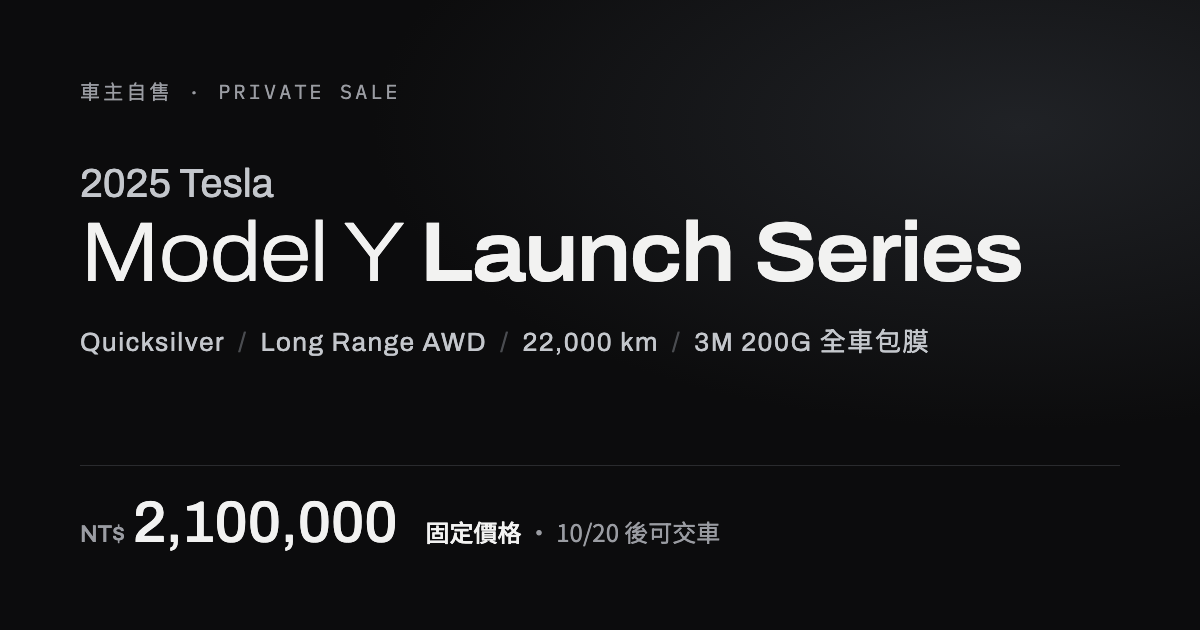
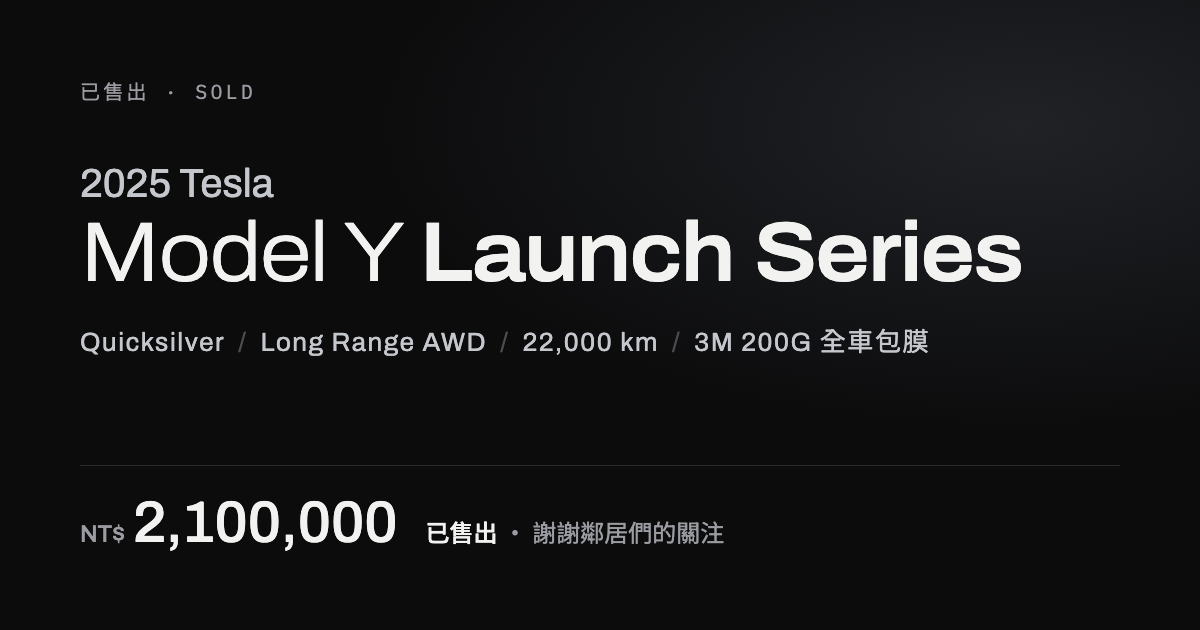
feat(sale): mark the car as sold
Sticky sold banner above the top bar, sold labels on the hero price,
price section and mobile dock, sold title/OG card, and SoldOut in the
Car JSON-LD.

Changed region(s): [[0.3392, 0.8143, 0.6167, 0.8746], [0.0617, 0.1206, 0.3392, 0.181]]

diff --git a/public/sale/index.html b/public/sale/index.html
@@ -3,8 +3,8 @@
 <head>
 <meta charset="utf-8">
 <meta name="viewport" content="width=device-width, initial-scale=1, viewport-fit=cover">
-<title>2025 Tesla Model Y Launch Series｜車主自售 NT$2,100,000</title>
-<meta name="description" content="車主自售 2025 Tesla Model Y Long Range AWD Launch Series（台灣首發限量版）。Quicksilver、黑內裝、20 吋 Helix 2.0，約 22,000 km，全車 3M 200G 保護膜，Tesla 原廠配件齊全。固定價格 NT$2,100,000。">
+<title>【已售出】2025 Tesla Model Y Launch Series｜車主自售</title>
+<meta name="description" content="已售出。車主自售 2025 Tesla Model Y Long Range AWD Launch Series（台灣首發限量版）。Quicksilver、黑內裝、20 吋 Helix 2.0，約 22,000 km，全車 3M 200G 保護膜，Tesla 原廠配件齊全。固定價格 NT$2,100,000。">
 <link rel="canonical" href="https://tesla.orz.tw/sale/">
 <meta name="theme-color" content="#0c0c0d">
 <script>try{var f=localStorage.getItem('sale-fs');if(f==='l'||f==='xl')document.documentElement.setAttribute('data-fs',f)}catch(e){}</script>
@@ -12,8 +12,8 @@
 <meta property="og:type" content="website">
 <meta property="og:locale" content="zh_TW">
 <meta property="og:url" content="https://tesla.orz.tw/sale/">
-<meta property="og:title" content="2025 Tesla Model Y Launch Series｜車主自售">
-<meta property="og:description" content="Quicksilver・黑內裝・20 吋 Helix 2.0・約 22,000 km・全車 3M 200G 保護膜。固定價格 NT$2,100,000。">
+<meta property="og:title" content="【已售出】2025 Tesla Model Y Launch Series｜車主自售">
+<meta property="og:description" content="Quicksilver・黑內裝・20 吋 Helix 2.0・約 22,000 km・全車 3M 200G 保護膜。已售出，謝謝鄰居們的關注。">
 <meta property="og:image" content="https://tesla.orz.tw/sale/images/og.png">
 <meta property="og:image:width" content="1200">
 <meta property="og:image:height" content="630">
@@ -41,7 +41,7 @@
     "@type": "Offer",
     "price": 2100000,
     "priceCurrency": "TWD",
-    "availability": "https://schema.org/InStock",
+    "availability": "https://schema.org/SoldOut",
     "seller": { "@type": "Person", "name": "車主自售" }
   }
 }
@@ -54,7 +54,7 @@
 <style>
   :root {
     --fs: 1;
-    --bar-h: 101px; /* top row 56 + border 1 + section index 44 */
+    --bar-h: 137px; /* sold banner 36 + top row 56 + border 1 + section index 44 */
     --ink: #0c0c0d;
     --graphite: #161719;
     --graphite-2: #1f2023;
@@ -113,6 +113,13 @@
   :focus-visible { outline: 2px solid currentColor; outline-offset: 3px; }
 
   /* ---------- Top bar ---------- */
+  .soldbar {
+    height: 36px; display: flex; align-items: center; justify-content: center; gap: 10px;
+    background: var(--text-light); color: var(--ink);
+    font-size: 14px; letter-spacing: .08em; white-space: nowrap; overflow: hidden;
+  }
+  .soldbar b { font-weight: 700; letter-spacing: .14em; }
+  .soldbar span { color: var(--muted-dark); }
   .topbar {
     position: fixed; inset: 0 0 auto 0; z-index: 50;
     color: var(--text-light);
@@ -219,7 +226,7 @@
     .hero .hero__foot { margin-top: 28px; padding-top: 20px; }
     .hero__actions .btn { flex: 1 1 0; }
   }
-  .hero__body { position: relative; z-index: 2; width: 100%; padding-top: 160px; padding-bottom: 48px; }
+  .hero__body { position: relative; z-index: 2; width: 100%; padding-top: 196px; padding-bottom: 48px; }
   .hero .eyebrow { color: var(--muted-light); }
   .hero h1 {
     margin-top: 18px;
@@ -252,6 +259,7 @@
   .price-tag__num small { font-size: calc(0.42em * var(--fs)); font-weight: 400; color: var(--muted-light); margin-right: 6px; letter-spacing: 0.04em; }
   .price-tag__note { font-size: calc(14px * var(--fs)); color: var(--muted-light); }
   .price-tag__note b { color: var(--text-light); font-weight: 500; }
+  .price-tag__note b.is-sold { display: inline-block; padding: 4px 12px; border-radius: 999px; background: var(--text-light); color: var(--ink); letter-spacing: .08em; }
   .hero__actions { display: flex; gap: 10px; flex-wrap: wrap; }
 
   /* ---------- Sections ---------- */
@@ -562,6 +570,7 @@
 </svg>
 
 <header class="topbar" id="topbar">
+  <p class="soldbar" role="status"><b>已售出 · SOLD</b><span>謝謝鄰居們的關注</span></p>
   <div class="wrap">
     <a class="topbar__name" href="#top">Model Y <span>Launch Series</span></a>
     <div class="topbar__actions">
@@ -602,7 +611,7 @@
       <div class="hero__foot">
         <div class="price-tag">
           <span class="price-tag__num"><small>NT$</small>2,100,000</span>
-          <span class="price-tag__note"><b>固定價格 Fixed Price</b>・10/20 後可交車</span>
+          <span class="price-tag__note"><b class="is-sold">已售出 Sold</b></span>
         </div>
         <div class="hero__actions">
           <a class="btn btn--light" href="#visit">怎麼看車</a>
@@ -861,7 +870,7 @@
         <div class="reveal">
           <p class="eyebrow">Price</p>
           <h2 id="price-title" class="price-big"><small>售價</small>NT$2,100,000</h2>
-          <span class="price-badge">Fixed Price・固定價格，不議價</span>
+          <span class="price-badge">已售出 · Sold</span>
         </div>
         <div class="reveal">
           <p class="muted">售價已依車況與市場行情直接設定為實售價格，採固定價格方式出售。</p>
@@ -955,7 +964,7 @@
 </footer>
 
 <div class="dock" id="dock" aria-hidden="true">
-  <span class="dock__price"><small>固定價格</small>NT$2,100,000</span>
+  <span class="dock__price"><small>已售出</small>NT$2,100,000</span>
   <a class="btn btn--light btn--sm" href="https://line.me/ti/p/weX-WQHvTo" target="_blank" rel="noopener" tabindex="-1">LINE 聯絡<svg aria-hidden="true"><use href="#i-arrow"/></svg></a>
 </div>
 
